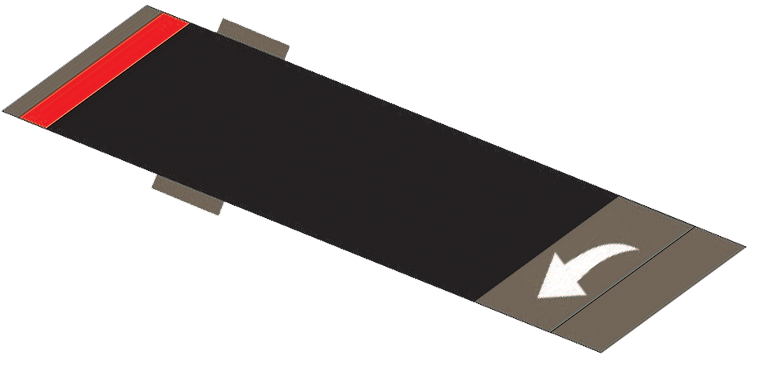
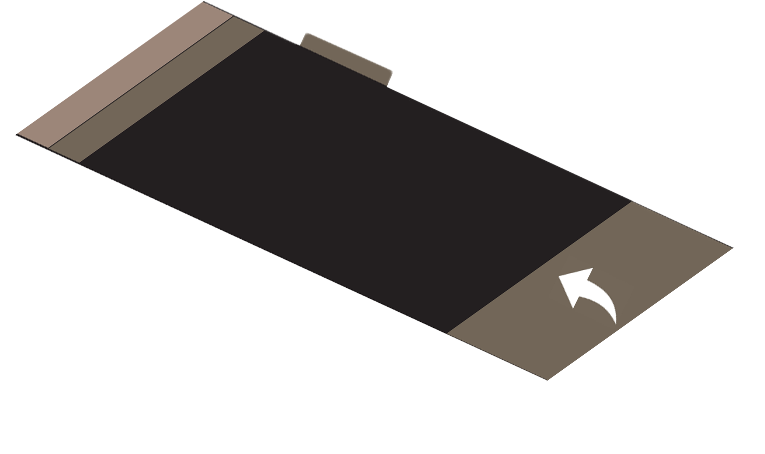
plaatjesveranderd

Changed region(s): [[0.0, 0.0, 0.9922, 0.9326], [0.1503, 0.4041, 0.3908, 0.5907], [0.1203, 0.3731, 0.1503, 0.4041]]

diff --git a/info.php b/info.php
@@ -140,7 +140,7 @@ Dit kan gewoon in een blokje tekst oid. Succes!
     <div id="info-right">
         <img id="info-img01" class="info-row-01" src="images/product_01.png" alt="CCS - Polsbandje voor signalering">
         <img id="info-img02" class="info-row-02" src="images/product_dummy.png" alt="CCS - Polsbandje gedragen.">
-        <img id="info-img03" class="info-row-03" src="images/product_dummy.png" alt="CCS - User Interface van het signaleringssysteem">
+        <img id="info-img03" class="info-row-03" src="images/product_03.png" alt="CCS - User Interface van het signaleringssysteem">
     </div>
 </div>
 
